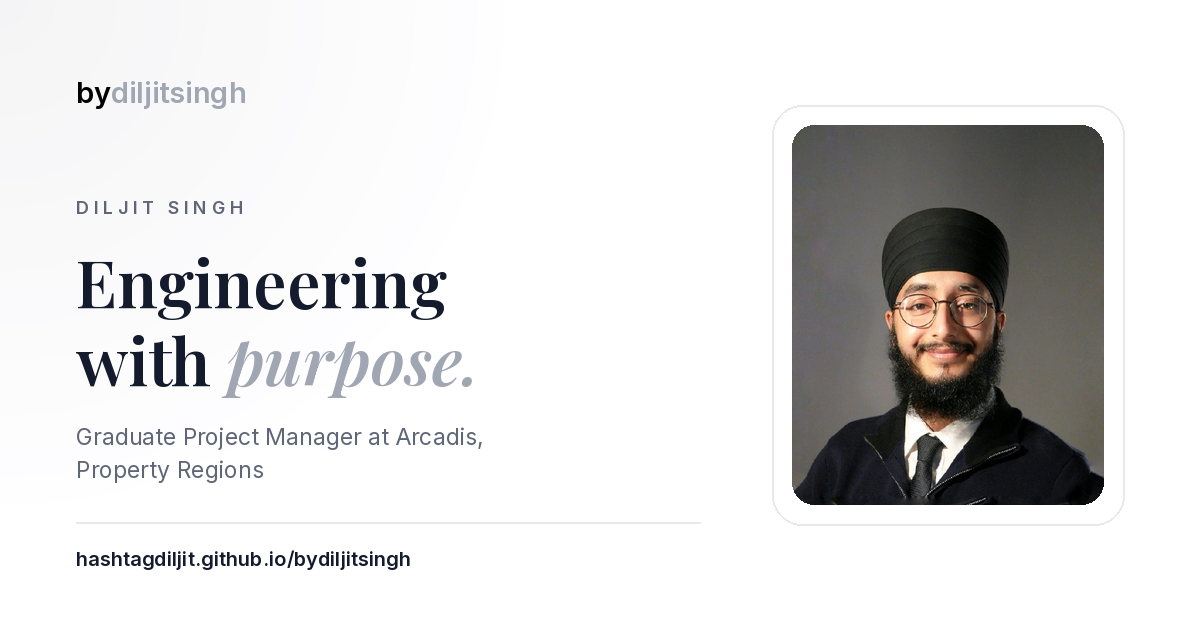
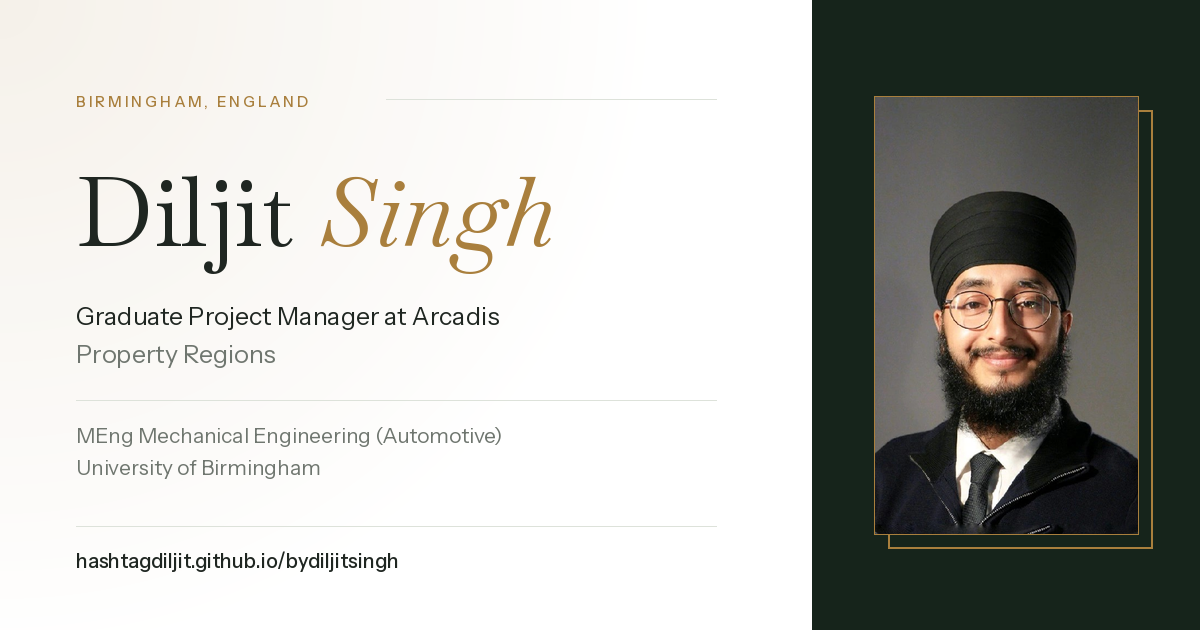
Fix image cropping, rename nav, update social card

diff --git a/styles.css b/styles.css
@@ -541,11 +541,14 @@ a {
 
 .showcase__media {
   position: sticky;
-  top: 15vh;
-  aspect-ratio: 4 / 5;
-  max-height: 66vh;
+  top: 18vh;
+  /* Landscape box: the project imagery is mostly wide CAD renders and
+     drawings, so a portrait frame cropped them badly. */
+  aspect-ratio: 4 / 3;
+  max-height: 58vh;
   overflow: hidden;
   background: var(--paper);
+  border: 1px solid var(--line);
 }
 
 .showcase__media figure {
@@ -564,17 +567,9 @@ a {
 .showcase__media img {
   width: 100%;
   height: 100%;
-  object-fit: cover;
-  filter: sepia(0.16) saturate(0.92);
-}
-
-.showcase__media::after {
-  content: "";
-  position: absolute;
-  inset: 0;
-  border: 1px solid var(--line);
-  pointer-events: none;
-  z-index: 3;
+  object-fit: contain;
+  padding: 26px;
+  filter: sepia(0.1) saturate(0.95);
 }
 
 /* Multiply an ivory wash over imagery so white studio backgrounds settle
@@ -586,7 +581,7 @@ a {
   inset: 0;
   background: var(--sage);
   mix-blend-mode: multiply;
-  opacity: 0.5;
+  opacity: 0.22;
   pointer-events: none;
   z-index: 2;
 }
@@ -668,15 +663,18 @@ a {
 .showcase__inline {
   display: none;
   margin-bottom: 22px;
-  aspect-ratio: 3 / 2;
+  aspect-ratio: 4 / 3;
   overflow: hidden;
+  background: var(--paper);
+  border: 1px solid var(--line);
 }
 
 .showcase__inline img {
   width: 100%;
   height: 100%;
-  object-fit: cover;
-  filter: sepia(0.16) saturate(0.92);
+  object-fit: contain;
+  padding: 16px;
+  filter: sepia(0.1) saturate(0.95);
 }
 
 /* --------------------------------------------------------------------------

diff --git a/index.html b/index.html
@@ -49,8 +49,8 @@
       <div class="shell masthead__inner">
         <a class="wordmark" href="index.html">Diljit <em>Singh</em></a>
         <nav>
-          <a href="index.html" aria-current="page">Index</a>
-          <a href="projects.html">Work</a>
+          <a href="index.html" aria-current="page">Home</a>
+          <a href="projects.html">Projects</a>
           <a href="cv.html">CV</a>
           <a href="mailto:diljitsingh2003@gmail.com">Contact</a>
         </nav>
